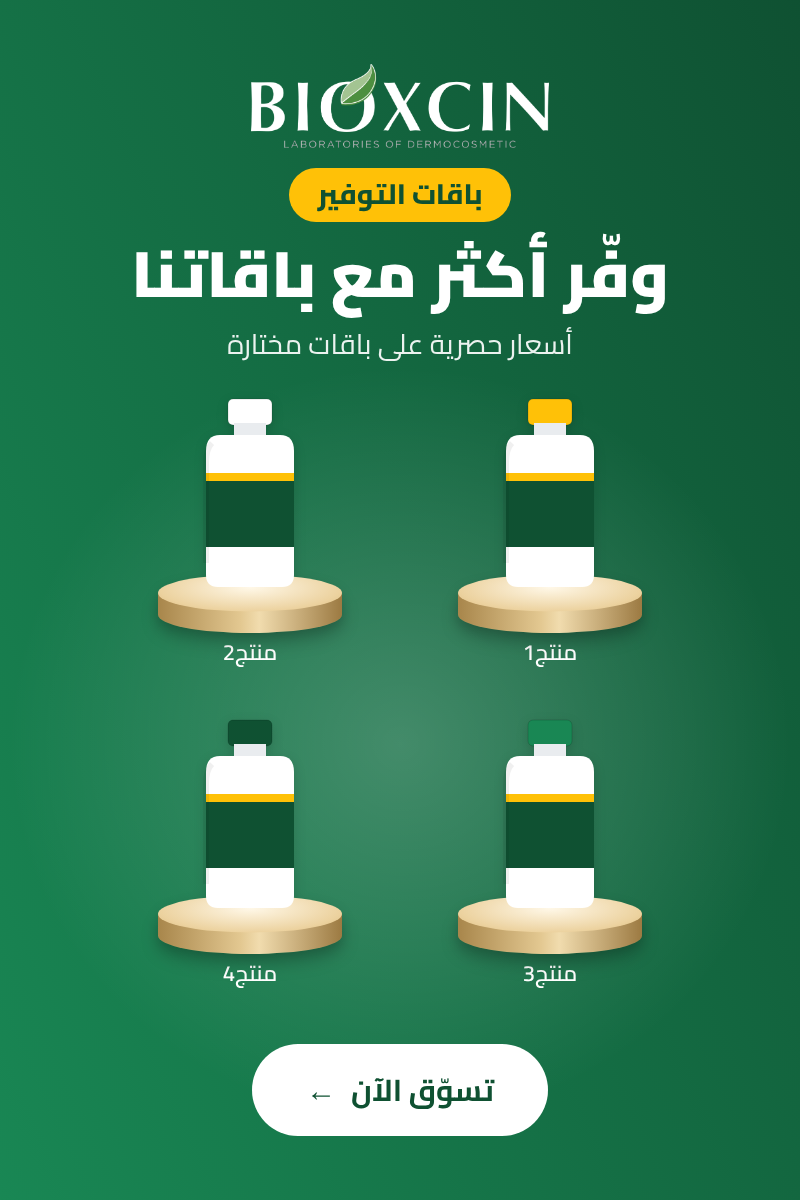
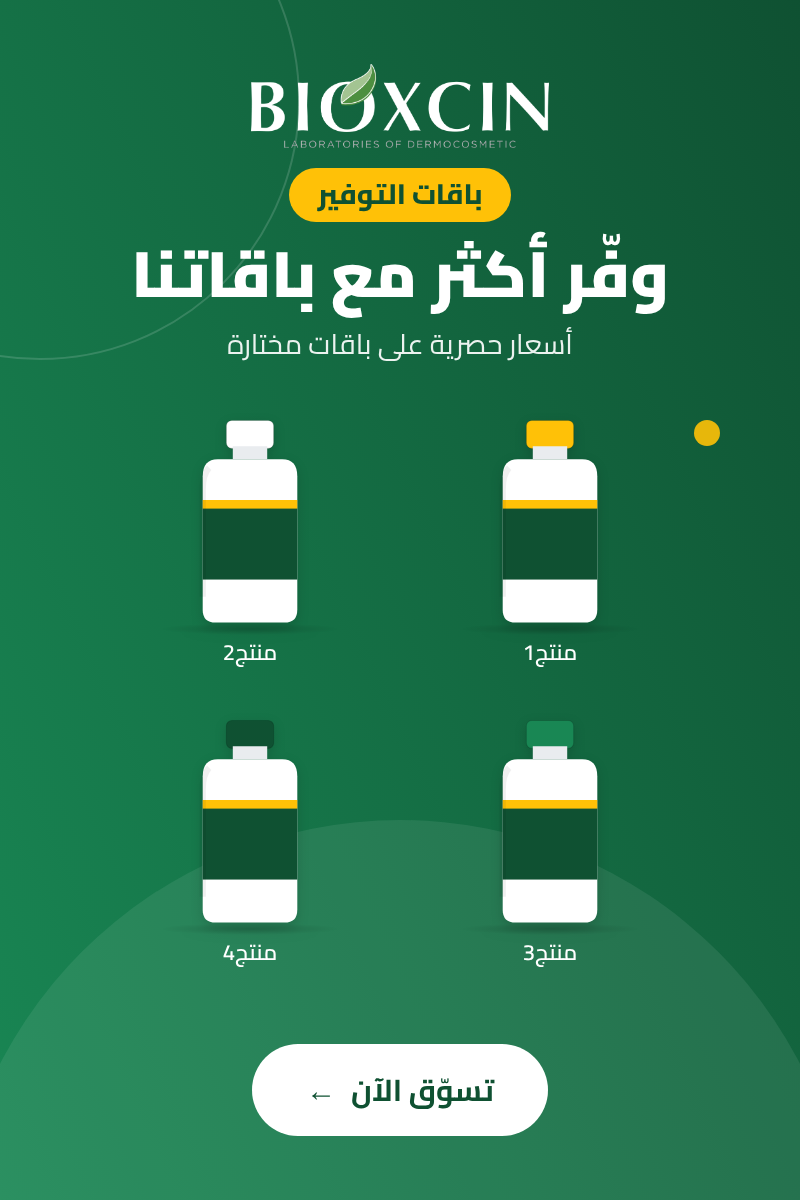
Switch back to the circles background (no pedestals)
Claude-Session: https://claude.ai/code/session_01MejyVmSq2aYVYmituLqweB

Changed region(s): [[0.1875, 0.3083, 0.8125, 0.8325], [0.8438, 0.3392, 0.9062, 0.37]]

diff --git a/banners/offers.js b/banners/offers.js
@@ -27,7 +27,7 @@ const BRAND = {
 const HEADLINE_STYLE = "plain";
 
 // Background pattern: "studio" (plain + product pedestals) | "circles" | "waves" | "leaves" | "glow"
-const PATTERN = "studio";
+const PATTERN = "circles";
 
 const OFFERS = [
   {
